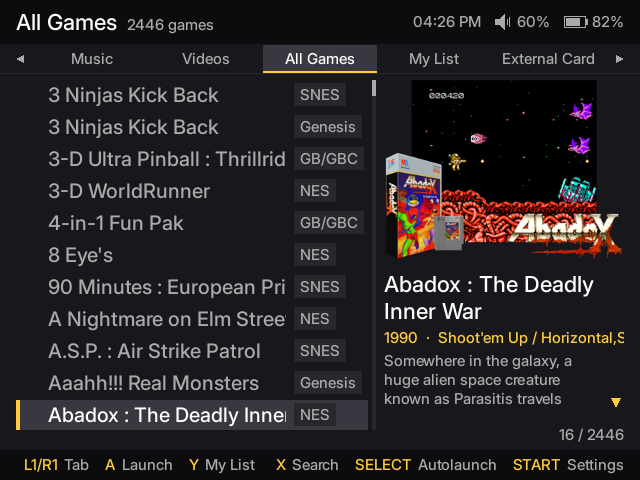
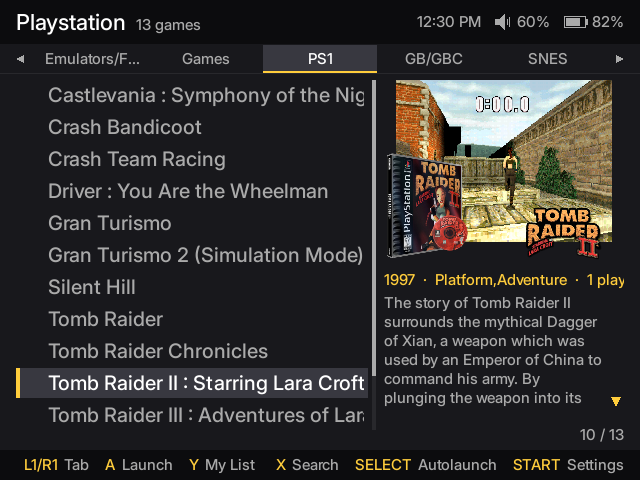
Puppy: the list's preview shows the same in both styles
The preview beside the list now holds the picture, the data line (year,
genre, players), the play time and the description, in Retro and in
Showcase. Retro drops the game's name, which the selected row already
shows and scrolls when it doesn't fit, as Showcase did in 85d0991.
Showcase drops the system line: the tab names the system, and in a mixed
tab (All Games, My List, Recent) the row has its tag. The description
gets the room, two more lines in both styles.

README: the Shelf and play time sentences follow. puppy-list.png and
showcase-list.png retaken with the Showcase screenshot script (ultra-dev
art, list, F1 x5, Down x9) in each style, so both now show Tomb Raider
II; the old Retro one was All Games on Abadox, a set the script doesn't
have. The script on the previous build gives the old showcase-list.png
pixel for pixel.

diff --git a/rootfs/package/puppy/src/launcher.cpp b/rootfs/package/puppy/src/launcher.cpp
@@ -413,7 +413,6 @@ void LauncherScreen::renderList(Ui& ui) {
     SDL_Rect box{kPreviewX, top, kPreviewW, kPreviewH};
     ui.drawIcon(ui.previewIcons(), e->iconPath, box);
     int y = box.y + box.h + 10;
-    y += ui.drawWrapped(fonts.ui, e->name, kPreviewX, y, theme().text, kPreviewW) + 4;
     if (!e->meta.empty()) {
         drawText(renderer, fonts.small, e->meta, kPreviewX, y, accent(), kPreviewW);
         y += TTF_FontLineSkip(fonts.small) + 4;
@@ -481,7 +480,7 @@ void LauncherScreen::renderRows(Ui& ui, int width) {
 }
 
 // The Showcase style's list (Shelf): the rows, an A-Z rail on the right, and between them the picture
-// over the game's system, data, play time and description (the selected row shows its name).
+// over the game's data, play time and description.
 void LauncherScreen::renderShelf(Ui& ui) {
     SDL_Renderer* renderer = ui.sdl();
     const Fonts& fonts = ui.font();
@@ -513,8 +512,6 @@ void LauncherScreen::renderShelf(Ui& ui) {
     if (!ui.drawFrame(trailer.frame(), box)) ui.drawIcon(ui.previewIcons(), e->iconPath, box);
     ui.roundCorners(box, 10, theme().bg);
     int y = box.y + box.h + 10;
-    drawText(renderer, fonts.small, c.mixed ? e->tag : tr(c.label), x, y, theme().muted, w);
-    y += TTF_FontLineSkip(fonts.small) + 6;
     if (!e->meta.empty()) {
         drawText(renderer, fonts.small, e->meta, x, y, theme().text, w);
         y += TTF_FontLineSkip(fonts.small);

diff --git a/README.md b/README.md
@@ -133,7 +133,7 @@ Add a new entry by modifying the `apps.puppy` file in your HOME partition. Take 
 
 Works with scraped collections: point Skraper (or anything that writes EmulationStation's `gamelist.xml`) at your rom folders and Puppy shows the games' names, artwork, descriptions and year/genre/players (and, in the Showcase style, plays their videos), no conversion needed (see [How do I add games?](#how-do-i-add-games)).
 
-Each system and app category gets its own tab, plus an "All Games" tab with every system's games and the native ports of the Games tab (tagged "Ports"; an app in My List or Recent is tagged "App"), a "My List" tab with your favourites, the most played first, and, once you've played something, a "Recent" tab with the last 30 games you opened, newest first, and a "Most Played" tab. The time spent in each game shows with its name, and in list view the day it was last played. The strip at the top shows five tabs of the same width, the current one in the middle, and wraps around. Controls:
+Each system and app category gets its own tab, plus an "All Games" tab with every system's games and the native ports of the Games tab (tagged "Ports"; an app in My List or Recent is tagged "App"), a "My List" tab with your favourites, the most played first, and, once you've played something, a "Recent" tab with the last 30 games you opened, newest first, and a "Most Played" tab. The time spent in each game shows next to its name in grid view, and beside its picture in list view with the day it was last played. The strip at the top shows five tabs of the same width, the current one in the middle, and wraps around. Controls:
 
 | Button | Action |
 |---|---|
@@ -287,7 +287,7 @@ System Settings
 - **Launcher tabs**: My List, Recent, Most Played and each system and apps tab can be hidden; hidden tabs' games still appear in All Games.
 - **Font**: Default (Inter, or Atkinson Hyperlegible in the Showcase style), VT323, Pixelify Sans or ProggyClean.
 - **Accent color**: the colour of the selection, the buttons in the hints and the bars, and of the volume and brightness feedback in games (from the next game on): yellow (the default), orange, red, pink, purple, blue, cyan, green or white.
-- **Style**: Retro, Puppy's own look, or Showcase, after the Vitrine launcher by Jeferson Lopes: a dark blue screen, bold titles, the selection as a rounded pill in the accent color, the face buttons in the hints as their letter in its colour on a grey button, and that launcher's layouts. Its list is Shelf: a narrower list, the picture with rounded corners over the game's name, system, data and description, and an A-Z rail lighting the selected game's letter. Its grid is Streaming: the selected game's picture fills the top right under a see-through top bar, its base down beside the row's name and its top cut when it doesn't fit, its left and bottom edges fading into the screen next to the game's name and data, with a row of covers per tab under it. Left/right move along the row and L1/R1 skip 10 games along it; up/down go to the previous/next tab's row and stop at the first and the last. The next tab's row shows under the current one. When the selected game has a video in its gamelist.xml (Skraper's videos), or a `VIDEO=` line with a clip in its `apps.puppy` entry (a port's trailer), or is itself a video of the Videos tab (30 s of it), it plays once in place of the picture after 2 s without a button, in both layouts, muted unless Interface's Trailer sound is on; any button stops it.
+- **Style**: Retro, Puppy's own look, or Showcase, after the Vitrine launcher by Jeferson Lopes: a dark blue screen, bold titles, the selection as a rounded pill in the accent color, the face buttons in the hints as their letter in its colour on a grey button, and that launcher's layouts. Its list is Shelf: a narrower list, the picture with rounded corners over the game's data, play time and description, and an A-Z rail lighting the selected game's letter. Its grid is Streaming: the selected game's picture fills the top right under a see-through top bar, its base down beside the row's name and its top cut when it doesn't fit, its left and bottom edges fading into the screen next to the game's name and data, with a row of covers per tab under it. Left/right move along the row and L1/R1 skip 10 games along it; up/down go to the previous/next tab's row and stop at the first and the last. The next tab's row shows under the current one. When the selected game has a video in its gamelist.xml (Skraper's videos), or a `VIDEO=` line with a clip in its `apps.puppy` entry (a port's trailer), or is itself a video of the Videos tab (30 s of it), it plays once in place of the picture after 2 s without a button, in both layouts, muted unless Interface's Trailer sound is on; any button stops it.
 - **Status bar**: the CPU temperature, the power chip (AXP223) temperature, the date, the time, the battery and the volume and audio output, each one on or off. In game puts them in the top right corner of every game, over a background whose opacity you set; it is off by default, so nothing covers the game. In the launcher puts the same items in the launcher's top bar (on by default). The time, the battery and the audio are on by default. A temperature turns yellow from 75 °C, where the A33 starts to slow down, and red from 90 °C.
 - **Performance**: the Gallium HUD graphs that FN + D-pad up shows in game. Text only goes at the top.
 - Overlay changes apply from the next game on.
